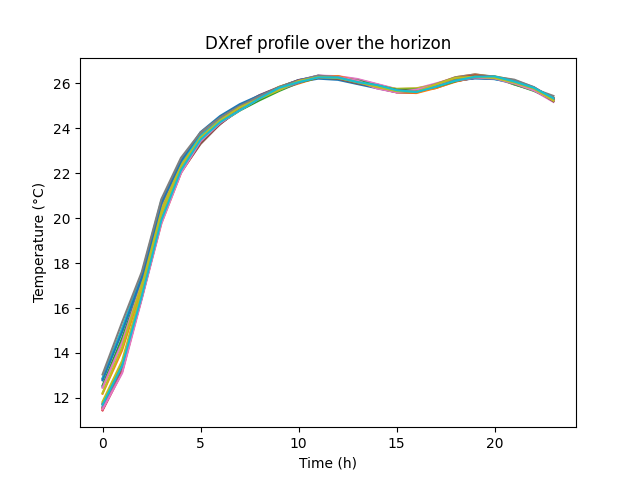
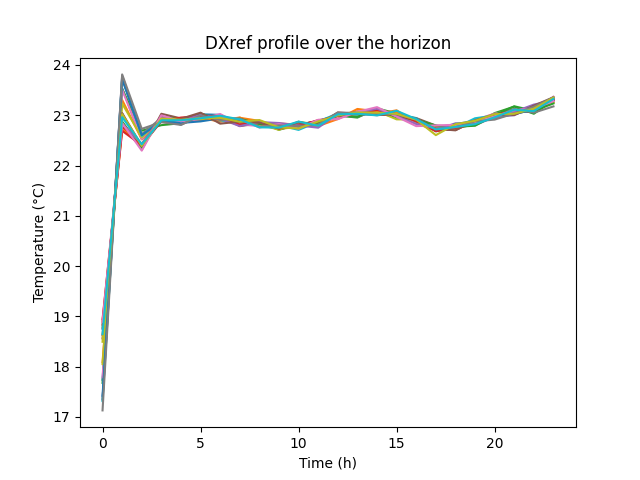
boolean peak tariff

diff --git a/loss_functions/DHN_loss.py b/loss_functions/DHN_loss.py
@@ -15,10 +15,12 @@ from assistive_functions import to_tensor
 
 class DHNLoss():
     def __init__(
-        self, R, u_min, u_max, x_min,x_max,
+        self, R, u_min, u_max, x_min,x_max,peak = False,
         alpha_xl=None, alpha_xh=None
     ):
         
+        self.peak = peak
+
         self.umin = to_tensor(u_min).to(device)
         self.umax = to_tensor(u_max).to(device)
         self.xmin = to_tensor(x_min).to(device)
@@ -61,23 +63,26 @@ class DHNLoss():
         dxref = dxref.reshape(*dxref.shape, 1)
 
 
-        u2_batch = us.reshape(*us.shape, 1)
         # loss states = 1/T sum_{t=1}^T (x_t-xbar)^T Q (x_t-xbar)
         
         # loss control actions = 1/T sum_{t=1}^T u_t^T R u_t
-        uTRu = self.R * torch.matmul(
-            u_batch.transpose(-1, -2),
-            u_batch
-        )   # shape = (S, T, 1, 1)
-
-        u_b = u_batch.clone()
-
-        for i in range(13):
-            u_b[:,i,:,:] = u_b[:,i,:,:]*10
 
 
-        #loss_u = torch.sum(u_b, 1) / x_batch.shape[1]    # average over the time horizon. shape = (S, 1, 1)
-        loss_u = torch.sum(uTRu, 1) / x_batch.shape[1] 
+
+        if self.peak:
+            u_b = u_batch.clone()
+            for i in range(13):
+                u_b[:,i,:,:] = u_b[:,i,:,:]*10
+            loss_u = torch.sum(u_b, 1) / x_batch.shape[1]    # average over the time horizon. shape = (S, 1, 1)
+        
+        else: 
+            uTRu = self.R * torch.matmul(
+                u_batch.transpose(-1, -2),
+                u_batch
+            )   # shape = (S, T, 1, 1)
+            loss_u = torch.sum(uTRu, 1) / x_batch.shape[1] 
+
+
 
         # upper bound on temperature loss
         if self.alpha_xh is None:

diff --git a/experiments/DHN/run.py b/experiments/DHN/run.py
@@ -34,6 +34,9 @@ args = argument_parser()
 # msg = print_args(args)    # TODO
 # logger.info(msg)
 
+
+peak_tarif = True 
+
 mass = 2200 #kg
 cop = 3.53 
 cp = 1.16*10**(-3) #(kWh.J^-1.K^-1)
@@ -105,6 +108,7 @@ ctl = PerfBoostController(
 #Size of the minimization 
 loss_fn = DHNLoss(
     R=args.alpha_u, u_min=u_min, u_max=u_max, x_min=x_min,x_max=x_max,
+    peak = peak_tarif,
     alpha_xh=50,    
     alpha_xl=50,
 )
